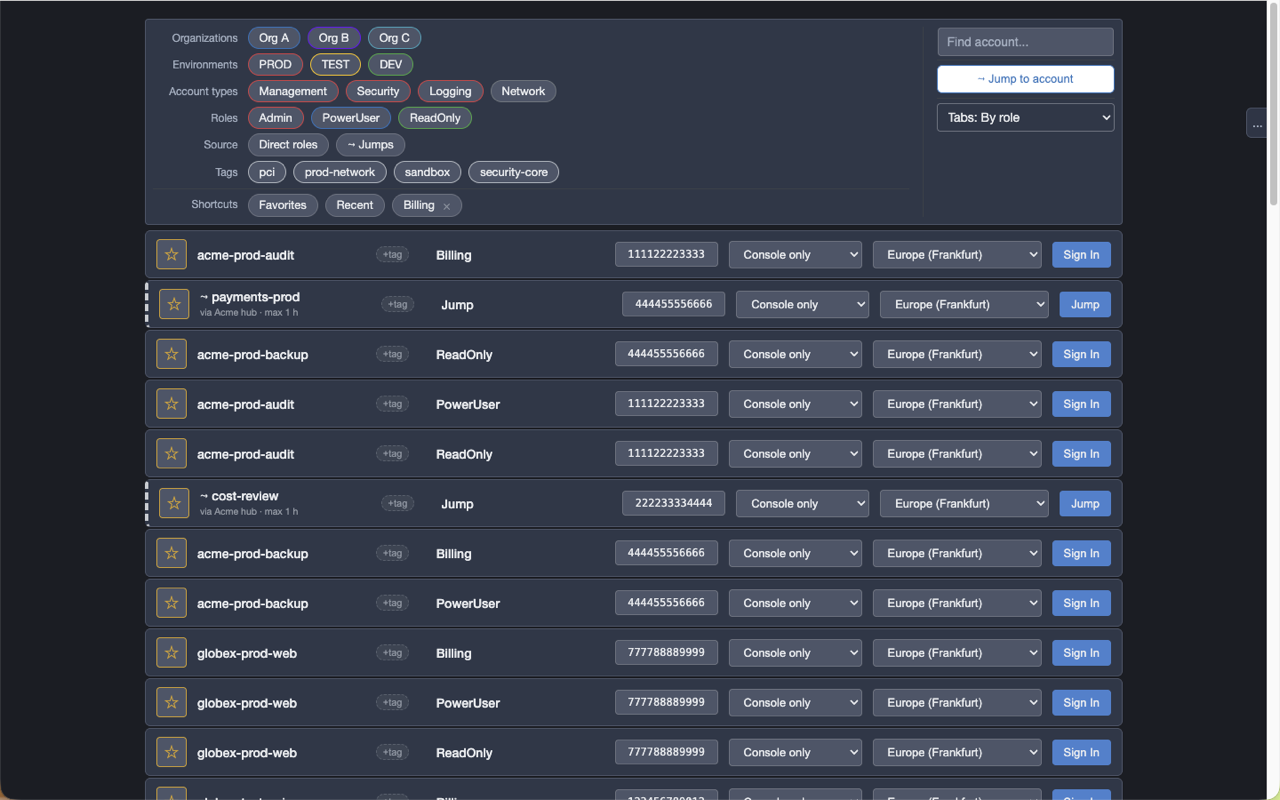
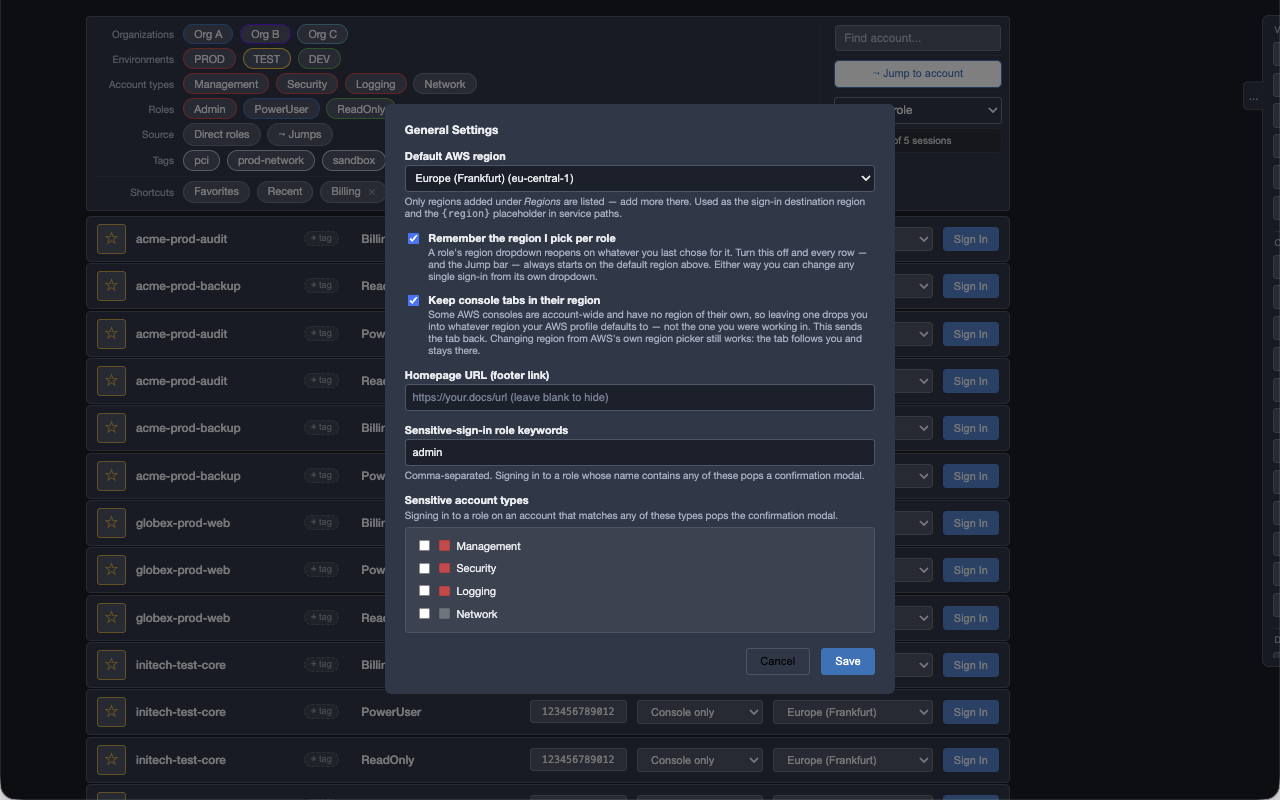
Reshoot screenshot 5 for 1.6.0, and drop the service list from the setting's help text
The dark shot only differed from shot 1 by theme, so it now carries General
Settings open over the dark picker: same dark-theme coverage, plus the new
"Keep console tabs in their region" tick.

The in-app help text for that setting named IAM/Billing/Organizations. An
AWS service-name list in the listing is one of the categories this extension
has been flagged on before, and the screenshot puts that text in the listing
— so the setting now describes the behaviour without naming services, which
also matches the store copy.

Capture notes worth keeping: this display is 1280px wide, so the store's
1280x800 frame is the whole viewport — the scene is rendered at zoom 0.84
and captured 1:1 rather than shot large and downscaled. #tm_actions_container
is the slide-out side menu, parked off the right edge by a left the extension
computes once and does not recompute on a synthetic resize, so staging pins
it with an important inline left. Demo data is a display-only DOM rewrite
with a leak scan that refuses the shot if any real account id, CH* role name
or the flagged vendor tag is still legible.

diff --git a/src/content/index.js b/src/content/index.js
@@ -8759,9 +8759,9 @@ IAM: &quot;iam/home&quot;">${currentServices}</textarea>
             <span>
               <span style="display: block !important; font-weight: 600 !important; color: #16191f !important; font-size: 13px !important;">Keep console tabs in their region</span>
               <span style="display: block !important; color: #6c757d !important; font-size: 12px !important; margin-top: 2px !important;">
-                AWS serves global consoles (IAM, Billing, Organizations, …) without a
-                region, so leaving one drops you into whatever region your AWS profile
-                defaults to — not the one you were working in. This sends the tab back.
+                Some AWS consoles are account-wide and have no region of their own, so
+                leaving one drops you into whatever region your AWS profile defaults to —
+                not the one you were working in. This sends the tab back.
                 Changing region from AWS's own region picker still works: the tab follows
                 you and stays there.
               </span>

diff --git a/STORE_LISTING.md b/STORE_LISTING.md
@@ -44,11 +44,11 @@ name in the title.
 
 NEW IN 1.6.0
 
-• Console tabs stay in their region — AWS serves its global consoles
-  (IAM, Billing, Organizations, Route 53, CloudFront, …) without a
-  region, which drops the region from the console address. Come back
-  to EC2 afterwards and AWS puts you wherever your AWS profile's
-  default Region points — often a region you have never worked in.
+• Console tabs stay in their region — some AWS consoles are
+  account-wide and have no region of their own, so opening one drops
+  the region from the console address. Go back to a regional console
+  afterwards and AWS puts you wherever your AWS profile's default
+  Region points — often a region you have never worked in.
   Console Hopper now remembers which region each console tab is
   working in and sends the tab back. Changing region from AWS's own
   region menu still works exactly as before: the tab follows you and
@@ -139,9 +139,9 @@ WHAT YOU GET
   Edit the offered regions via "Regions".
 
 • Console tabs stay in their region
-  AWS's global consoles (IAM, Billing, Organizations, Route 53, …) are
-  served without a region, so visiting one drops the region from the
-  console address — and the next regional console you open lands
+  Some AWS consoles are account-wide and carry no region of their own,
+  so visiting one drops the region from the console address — and the
+  next regional console you open lands
   wherever your AWS profile's default Region points rather than where
   you were working. Console Hopper remembers what region each console
   tab is in and sends the tab back, while leaving alone any region you
@@ -298,8 +298,8 @@ many AWS accounts via SAML SSO reach the right role faster. Saved
 — appear as rows in the same list and sign in the same way. It
 decorates AWS console tabs with a coloured favicon and account-name
 title prefix so many open consoles stay tellable apart, and keeps each
-console tab in the AWS Region it was working in when a region-less
-global console (IAM, Billing, …) drops it from the address. A panel
+console tab in the AWS Region it was working in when an
+account-wide console drops it from the address. A panel
 shows how many of AWS's five concurrent console sessions are in use
 and lets the user sign one — or all — out to free a slot. "Clear AWS
 Sessions" signs the user out of all AWS consoles by deleting AWS
@@ -408,7 +408,7 @@ display its filters, favorites, search or service dropdowns.
 Two uses, both confined to AWS console pages. First, to set the per-tab
 favicon and tab-title prefix so the user can tell their many open AWS
 console tabs apart at a glance. Second, to keep a console tab in the
-AWS Region it was working in: AWS's global consoles (IAM, Billing, …)
+AWS Region it was working in: some AWS consoles are account-wide and
 are served without a Region, so returning to a regional console lands
 in whatever Region that AWS profile defaults to. The extension compares
 the loaded console address's Region against the one the tab was using
@@ -464,12 +464,13 @@ own Region. Page content is neither read nor transmitted.
 - [ ] Re-run the 1.5.0 end-to-end pass on the 1.6.0 build before submitting
       (jump rows, Source filter, Jump Destinations, sessions Sign out all;
       footer reads v1.6.0).
-- [x] Five 1280×800 screenshots in `store-assets/`, refreshed for 1.5.0
-      (jump rows + Source filter, is: search, Jump Destinations grid,
-      sessions Sign-out-all, dark) — real UI, demo account data.
-- [ ] Decide whether 1.6.0 needs a screenshot reshoot. The only visible
-      change is the new "Keep console tabs in their region" tick in General
-      Settings; the 1.5.0 set is otherwise still accurate.
+- [x] Five 1280×800 screenshots in `store-assets/`. Shots 1–4 are the 1.5.0
+      set (jump rows + Source filter, is: search, Jump Destinations grid,
+      sessions Sign-out-all); shot 5 was reshot for 1.6.0 as General Settings
+      open over the dark role picker, so it still carries the dark theme and
+      now shows the "Keep console tabs in their region" tick. Real UI,
+      placeholder account data (AWS-doc-style ids, acme/globex/initech names,
+      generic tags — no real vendor names).
 - [x] Promo tiles (440×280 and 1400×560) regenerated for 1.4.0.
 - [ ] Confirm the 128×128 icon renders cleanly (the current one is
       upscaled from a 64×64 source — a sharper 128×128 original is
